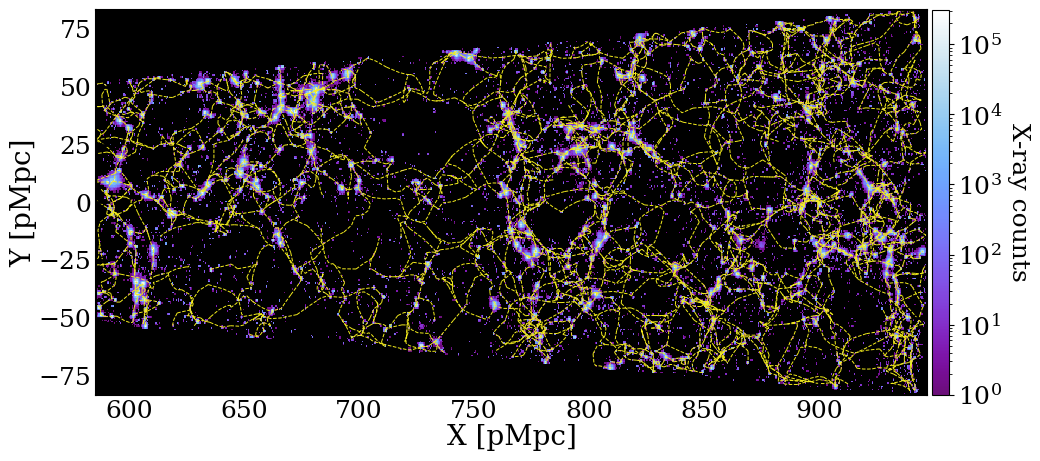
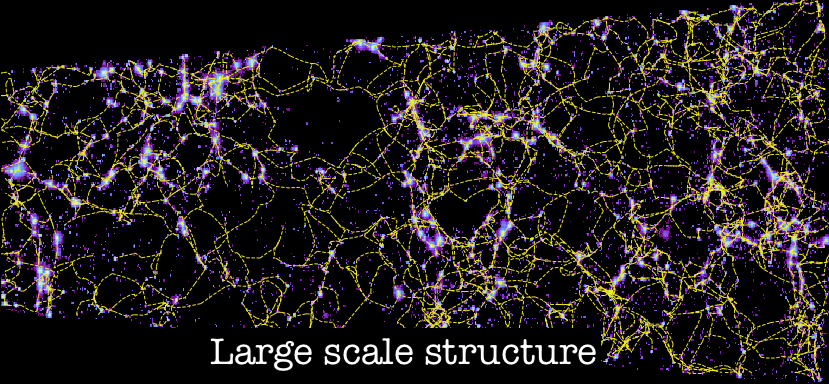
Deployed 14b398f with MkDocs version: 1.6.1

diff --git a/index.html b/index.html
@@ -478,13 +478,8 @@ I am an astrophysicist and research software developer, and I am currently worki
 <p>My work on various science projects over the years are summarized below.</p>
 <hr />
 <h1 id="science-projects">Science Projects</h1>
-<ul>
-<li>Galaxy classification with machine learning</li>
-<li>microlensing</li>
-<li>Hot gas around galaxies</li>
-<li>Black holes</li>
-</ul>
 <div class="projects-grid">
+
 
 
 <div class="flip-card">
@@ -507,6 +502,57 @@ I am an astrophysicist and research software developer, and I am currently worki
 
 
 
+
+
+<div class="flip-card">
+  <div class="flip-card-inner">
+
+    <div class="flip-card-front">
+      <img src="images/figure4.png" alt="LSS">
+    </div>
+
+    <div class="flip-card-back">
+      <h3> The cosmic web </h3>
+      <p>My work on cosmic web classification and it's impact on the hot CGM.<br><a href="https://arxiv.org/abs/2506.17222" target="_blank">View publication here</a>
+
+      <p>My work building observational filament catalogs in X-rays with eROSITA.<br><a href="https://soumyashreeram.github.io/soumya_shreeram.github.io/lightcone/" target="_blank">View on GitHub</a>
+        </p>
+    </div>
+
+  </div>
+</div>
+
+
+
+
+
+
+
+
+
+
+<div class="flip-card">
+  <div class="flip-card-inner">
+
+    <div class="flip-card-front">
+      <img src="images/BlackHoles.png" alt="black_hole">
+    </div>
+
+    <div class="flip-card-back">
+      <h3> Black holes</h3>
+      <p>I worked on modelling the spectra of black hole X-ray binary GRS 1915+105 at Oxford, UK.<br><a href="https://arxiv.org/abs/1912.06833" target="_blank">View publication here</a>
+
+      <p>My master thesis work was on modifing the demographics of the Active Galactic Nuclei in dark matter only simulations.<br><a href="https://github.com/SoumyaShreeram/Locating_AGN_in_DM_halos" target="_blank">View on GitHub (thesis therein)</a>
+        </p>
+    </div>
+
+  </div>
+</div>
+
+
+
+
+
 <div class="flip-card">
   <div class="flip-card-inner">
 
@@ -516,7 +562,7 @@ I am an astrophysicist and research software developer, and I am currently worki
 
     <div class="flip-card-back">
       <h3>Study of the Galactic Centre Region of the Milky Way Using Slitless Spectroscopy</h3>
-      <p>This project was done at MPIA, Heidelberg, Germany.<br>
+      <p>This project, conducted at MPIA, Heidelberg, Germany, aimed to distinguish between early and late-type stars in the Galactic Centre Region using Slitless Spectroscopy.<br>
       <a href="https://github.com/SoumyaShreeram/Slitless_spectroscopy/" target="_blank">See code and project report on Github.</p>
       </a>
     </div>
@@ -545,7 +591,7 @@ I am an astrophysicist and research software developer, and I am currently worki
       <h3>Pulsars: radio astronomy</h3>
       <p>This experiment investigates pulsar properties. The data for the experiment was obtained from the radio telescopes at Jodrell Bank Observatory, Cheshire.<br>
       <a href="https://bb511.github.io/CrabPulsar/index.html" target="_blank">
-        Visit the website showing our results here.</p>
+        Visit the website showing our results</p>
       </a>
     </div>
 
@@ -575,6 +621,12 @@ I am an astrophysicist and research software developer, and I am currently worki
 
 
 </div>
+
+<ul>
+<li>Galaxy classification with machine learning</li>
+<li>microlensing</li>
+<li>Hot gas around galaxies</li>
+</ul>
 <hr />
 <h1 id="contact">Contact</h1>
 <p>You can reach me at shreeramsoumya [at] gmail [dot] com. </p>

diff --git a/stylesheets/extra.css b/stylesheets/extra.css
@@ -66,7 +66,8 @@
 }
 
 .flip-card-back h3 {
-  margin-bottom: 0.5rem;
+  margin-bottom: 0.3rem;
+  margin-top: 5px;
 }
 
 .flip-card-back p {
@@ -78,7 +79,7 @@
   color: #ff9800;
   font-weight: 600;
   text-decoration: none;
-  padding: 18px;
+  padding: 2px 20px 20px 20px;
 }
 
 .project-grid {
@@ -91,7 +92,7 @@
   display: flex;
   align-items: center;
   gap: 2rem;
-  margin-top: 1.5rem;
+  margin-top: 1rem;
   margin-bottom: 2rem;
 }
 
